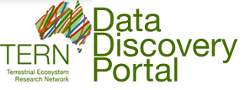
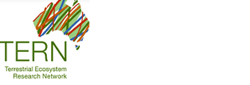
changed log picture

Changed region(s): [[0.0, 0.0, 0.952, 0.9176], [0.0, 0.7529, 0.28, 0.9412]]

diff --git a/tern-portal/application/views/home_pagev4.php b/tern-portal/application/views/home_pagev4.php
@@ -42,7 +42,7 @@ $home = 1;
     <div class="ui-layout-west hidden">  
         <ul>
              <li id ="tddp" class="fl">
-                <input type="image"  src="/img/tddp.png" height="50" width="190" name="tddp" >
+                <input type="image"  src="/img/tddp/png" height="50" width="190" name="tddp" >
             </li>
             <li id ="auscover" class="fl">
                 <input type="image"  src="/img/auscover.png" height="50" width="190" name="auscover">
